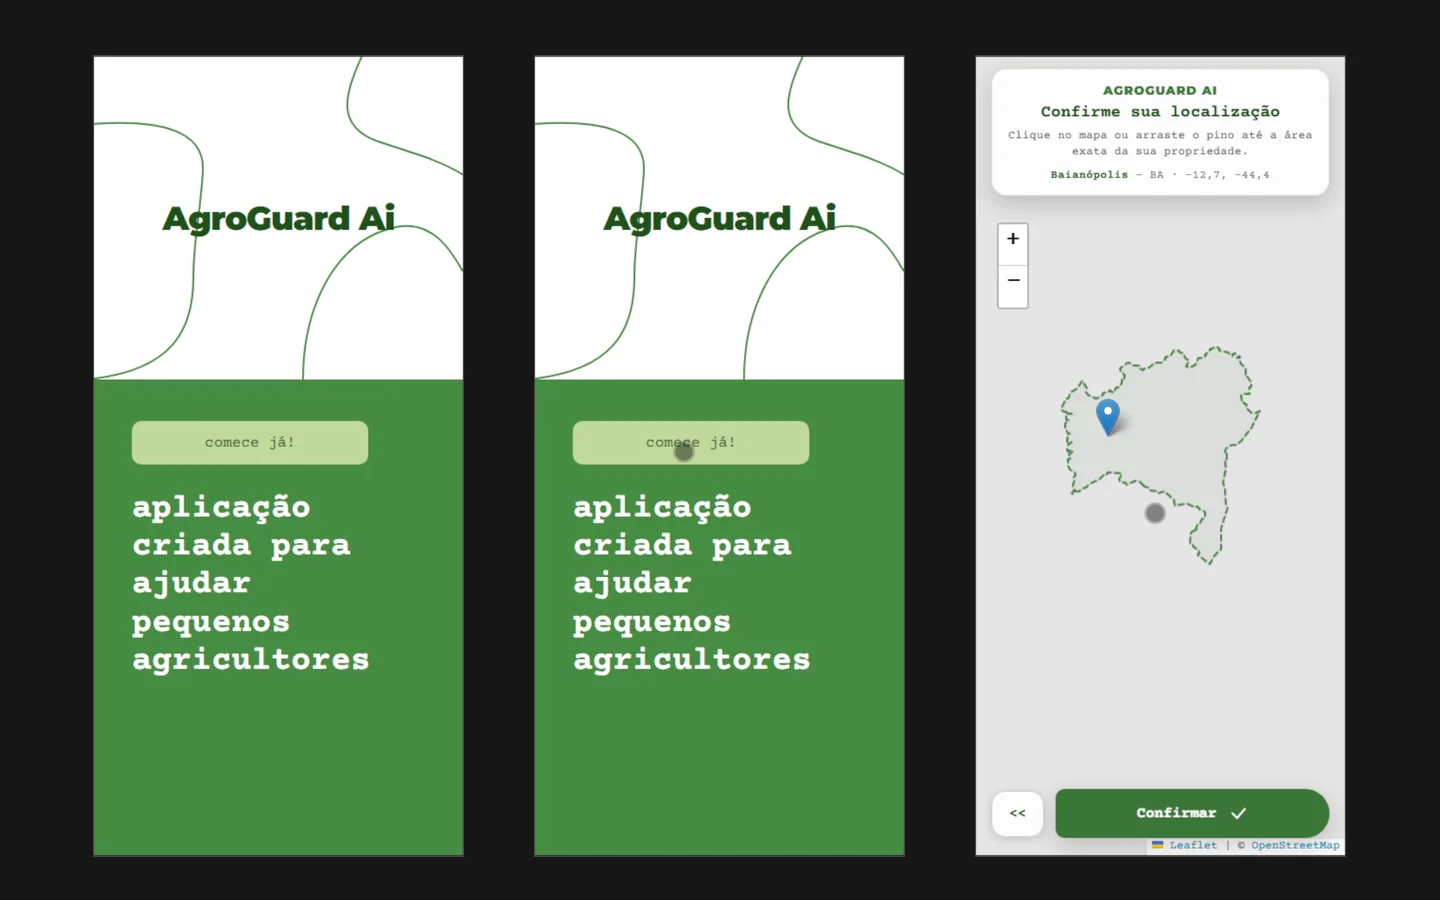
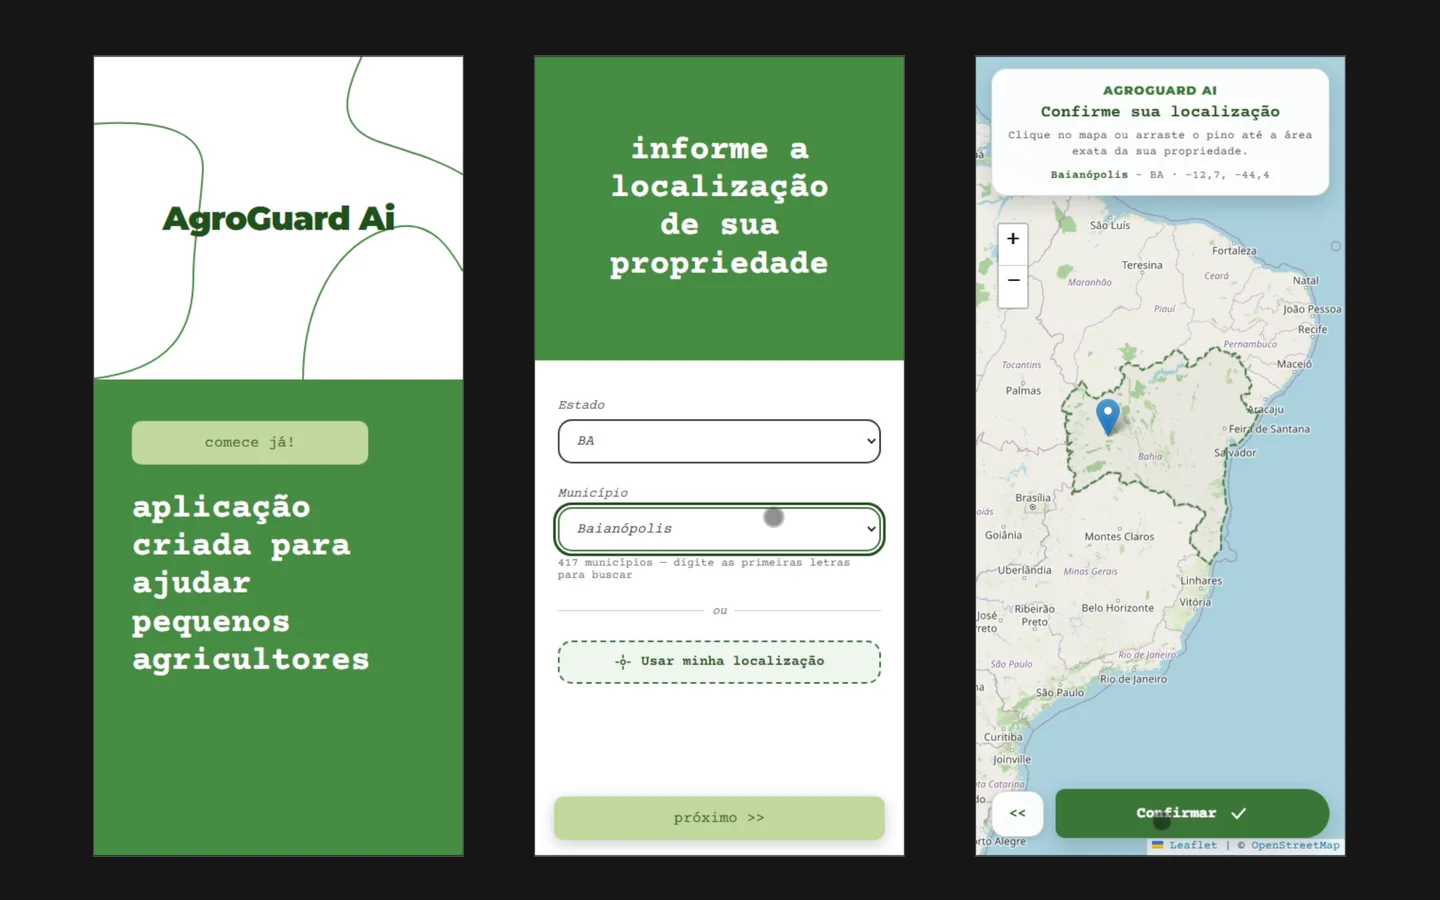
fix: quadros de localização do AgroGuard, corte de texto no celular e ajustes de texto
Inclui as edições manuais de texto (nome, CompletAI, frameworks, rodapé).

diff --git a/index.html b/index.html
@@ -46,7 +46,7 @@
     <section class="intro wrap">
       <div class="intro__text">
         <p class="meta">Researcher (CEIA-UFG) @ Noleak Defence &nbsp;/&nbsp; ADS @ IFSP Araraquara</p>
-        <h1 data-det="pessoa">Hendrick<br><em>Ascendino</em></h1>
+        <h1 data-det="pessoa">Hendrick A.<br><em>Ascendino</em></h1>
         <p class="intro__lead" data-det="resumo">
           Sou desenvolvedor e pesquisador pelo Centro de Excelência em Inteligência Artificial
           da UFG, atuando no P&amp;D da Noleak Defence com <mark>visão computacional</mark> e
@@ -137,7 +137,7 @@
       <ol class="block__body projects">
         <li class="proj" data-det="projeto">
           <p class="proj__ctx mono">Hackathon SEMCOMP × iFood · em grupo</p>
-          <h3>CompletAi</h3>
+          <h3>CompletAI</h3>
           <p class="proj__desc">
             Um agente que recebe texto, foto ou voz e devolve receitas e produtos. Ele usa o
             OpenAI Agents SDK conectado ao MCP oficial do iFood para buscar ofertas e só monta o
@@ -150,7 +150,7 @@
           </p>
 
           <!-- Quadros extraídos da gravação do fluxo completo (endereço desfocado). -->
-          <figure class="shot" aria-label="Quadros do CompletAi em funcionamento, com anotações">
+          <figure class="shot" aria-label="Quadros do CompletAI em funcionamento, com anotações">
             <div class="shot__bar mono">
               <span class="shot__file">completai/fluxo.mp4</span>
               <span class="shot__nav">
@@ -265,7 +265,10 @@
                      alt="Abertura, escolha da localização e confirmação do ponto no mapa">
                 <div class="ann ann--group ann--out" style="--l:6.53; --t:6.22; --w:25.62; --h:88.89" data-label="abertura"></div>
                 <div class="ann ann--group ann--out" style="--l:37.15; --t:6.22; --w:25.62; --h:88.89" data-label="localização"></div>
+                <div class="ann ann--out" style="--l:38.69; --t:46.41; --w:22.56; --h:5.19" data-label="UF"></div>
+                <div class="ann ann--out" style="--l:38.69; --t:55.85; --w:22.56; --h:5.46" data-label="município · IBGE"></div>
                 <div class="ann ann--group ann--out" style="--l:67.78; --t:6.22; --w:25.62; --h:88.89" data-label="confirmação · mapa"></div>
+                <div class="ann" style="--l:74.52; --t:38.17; --w:12.44; --h:28.24" data-label="estado · contorno"></div>
               </div>
               <div class="shot__item" data-file="agroguard/risco-por-municipio" hidden>
                 <img src="img/agroguard-2-risco.webp" width="1440" height="900" loading="lazy"
@@ -406,7 +409,7 @@
       <h2 class="block__label">Stack</h2>
       <dl class="block__body stack" data-det="habilidades">
         <div><dt>Linguagens</dt><dd>Python, JavaScript, TypeScript, PHP</dd></div>
-        <div><dt>Frameworks</dt><dd>FastAPI, React</dd></div>
+        <div><dt>Frameworks</dt><dd>FastAPI</dd></div>
         <div><dt>IA e dados</dt><dd>LLMs, agentes, RAG, visão computacional, pandas</dd></div>
         <div><dt>Infra e qualidade</dt><dd>Git, GitHub, GitLab, Docker, Linux, CI/CD, testes automatizados</dd></div>
         <div><dt>Bancos</dt><dd>PostgreSQL, MySQL, SQL Server</dd></div>
@@ -469,7 +472,7 @@
 
   <footer class="foot wrap">
     <p>© <span id="year"></span> Hendrick Araújo Ascendino</p>
-    <p class="mono">HTML, CSS e JS, sem framework. Aperte <kbd>D</kbd> para ver a página como um modelo de detecção vê.</p>
+    <p class="mono">Aperte <kbd>D</kbd> para ver a página como um modelo de detecção vê.</p>
   </footer>
 
   <div class="det-layer" id="det-layer" aria-hidden="true"></div>

diff --git a/styles.css b/styles.css
@@ -157,7 +157,8 @@ kbd { font: 500 .85em var(--mono); border: 1px solid var(--rule); border-bottom-
 .job__list li::before { counter-increment: j; content: counter(j, decimal-leading-zero); font: 400 .75rem/2.1 var(--mono); color: var(--ink-2); }
 
 /* projetos */
-.projects { display: grid; }
+.projects { display: grid; grid-template-columns: minmax(0, 1fr); }
+.proj, .proj > * { min-width: 0; }   /* o visualizador não pode alargar a coluna */
 .proj {
   position: relative; padding: 28px 24px 28px 0;
   border-top: 1px solid var(--rule);
@@ -192,7 +193,7 @@ kbd { font: 500 .85em var(--mono); border: 1px solid var(--rule); border-bottom-
 
 /* ---------- prints dos projetos (dataset anotado) ---------- */
 .shot { margin-top: 18px; border: 1px solid var(--ink); background: var(--cam-bg); color: var(--cam-ink); position: relative; z-index: 1; }
-.shot__bar { display: flex; align-items: center; gap: 14px; padding: 7px 10px; font-size: .72rem; border-bottom: 1px solid #ffffff14; }
+.shot__bar { display: flex; align-items: center; gap: 14px; padding: 7px 10px; font-size: .72rem; border-bottom: 1px solid #ffffff14; min-width: 0; }
 .shot__file { min-width: 0; overflow: hidden; text-overflow: ellipsis; white-space: nowrap; }
 .shot__file::before { content: "IMG · "; opacity: .6; }
 .shot__count, .shot__toggle { white-space: nowrap; }
@@ -315,4 +316,6 @@ kbd { font: 500 .85em var(--mono); border: 1px solid var(--rule); border-bottom-
   .shot__file::before { content: ""; }
   .shot__bar { gap: 8px; font-size: .66rem; padding: 6px 8px; }
   .shot__btn, .shot__toggle { padding: 2px 5px; }
+  .shot__toggle { font-size: 0; }                       /* só o quadradinho no celular */
+  .shot__toggle::before { margin-right: 0; width: 10px; height: 10px; }
 }
